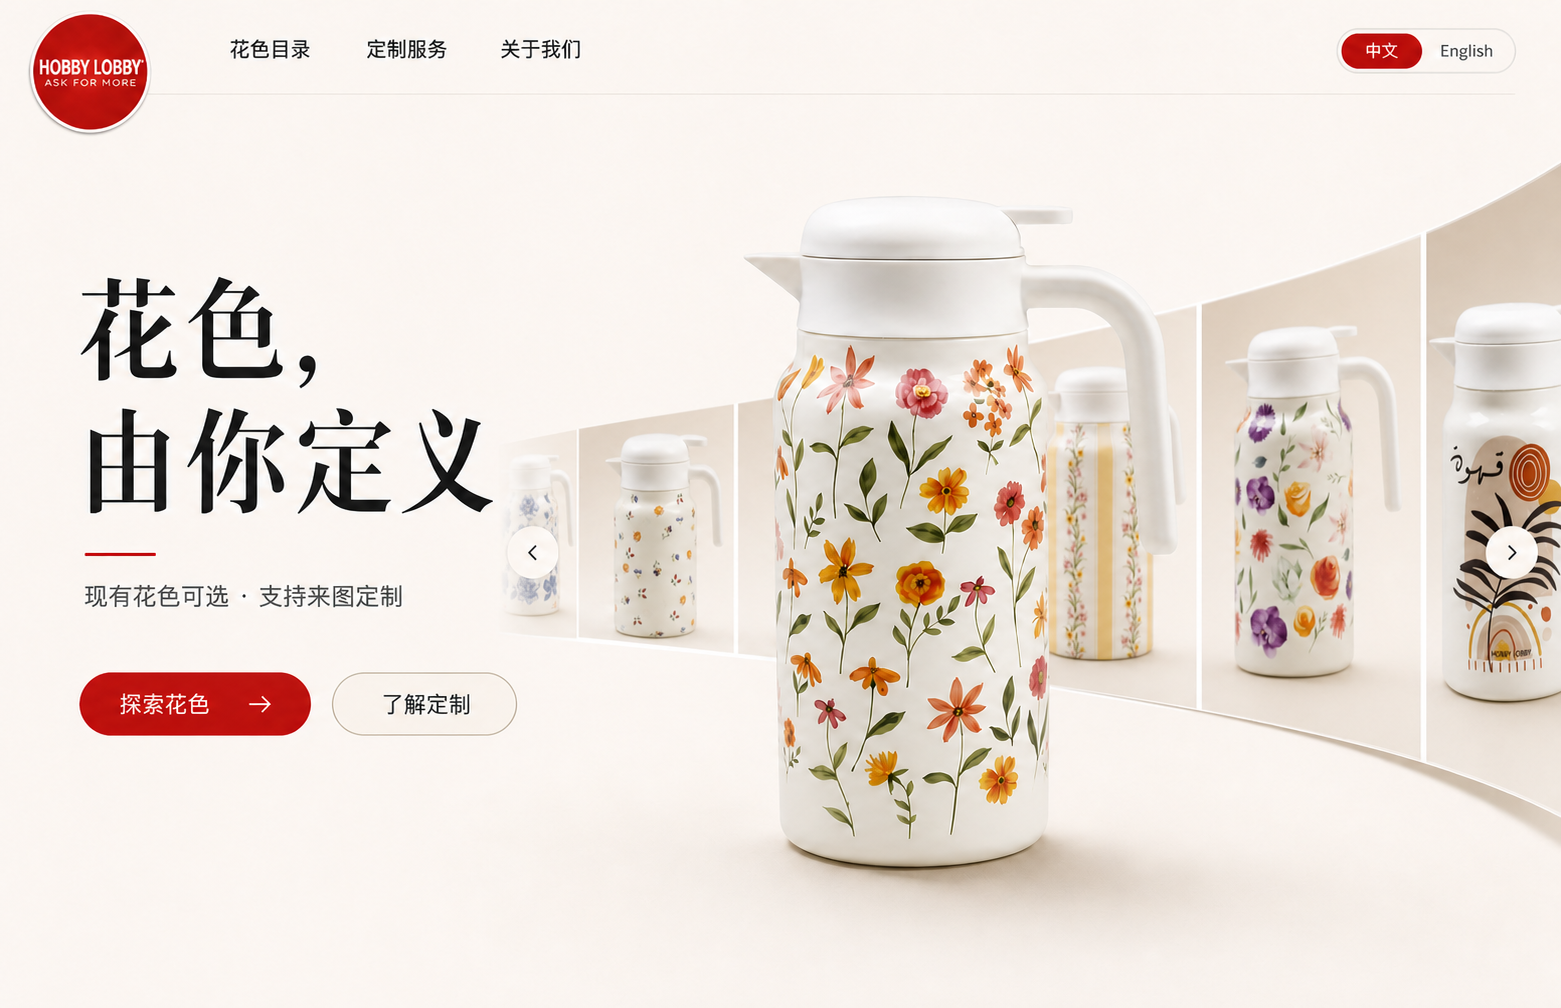
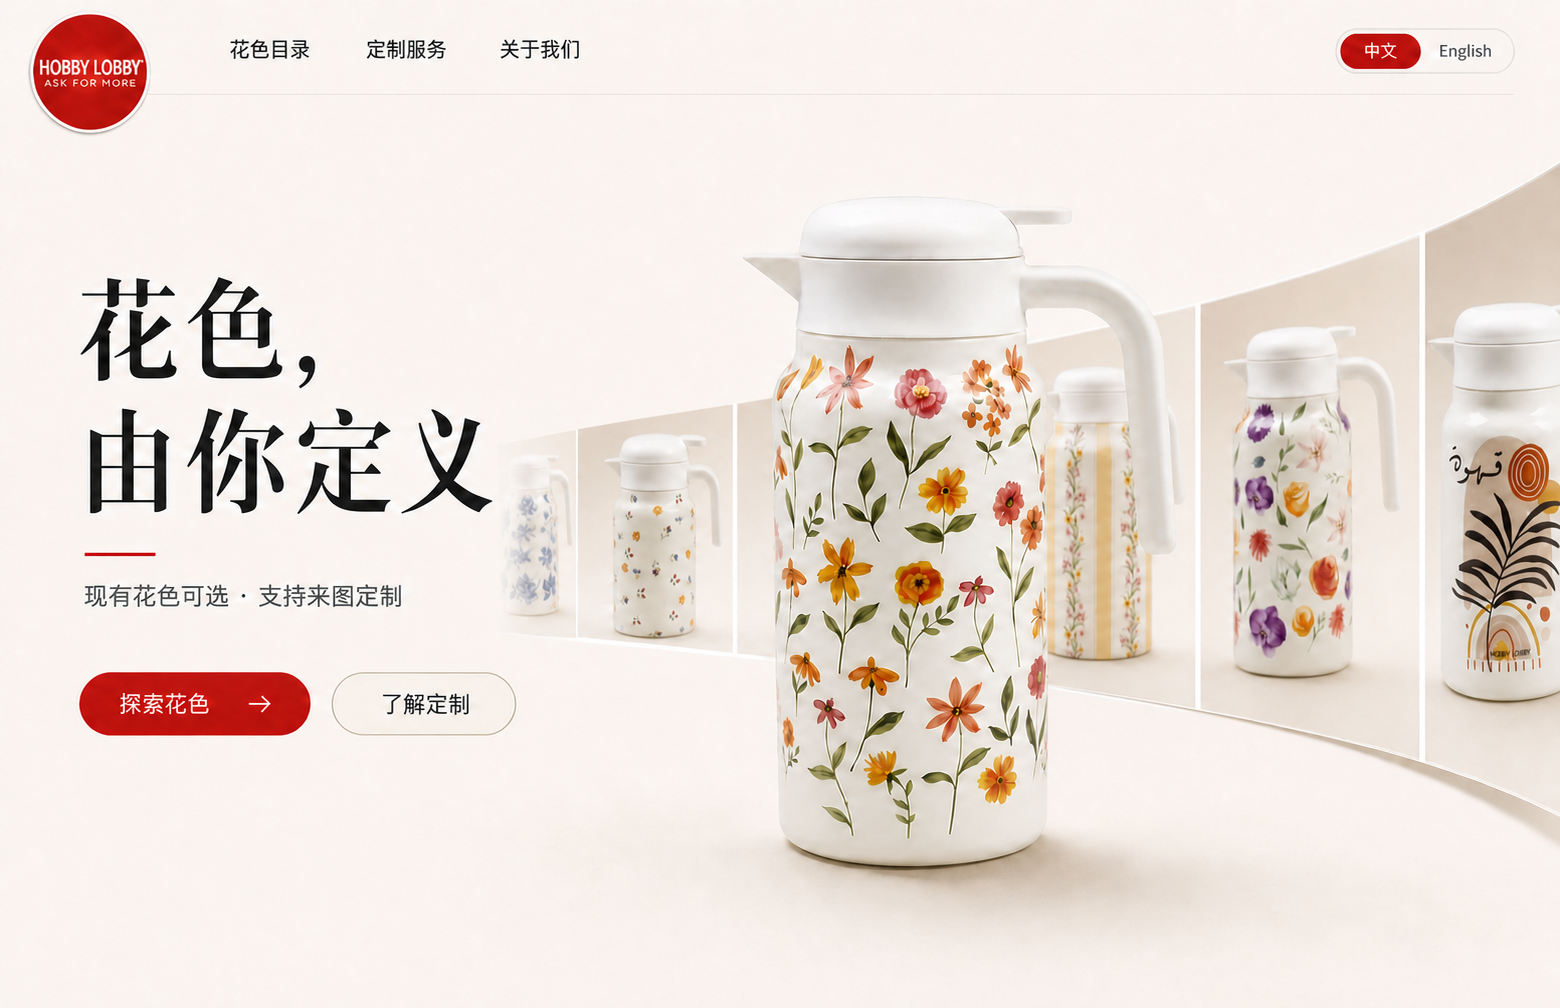
Remove inactive hero arrows

diff --git a/src/App.jsx b/src/App.jsx
@@ -962,7 +962,7 @@ function Storefront() {
   return (
     <div className={`site-shell ${language === "zh" ? "static-reference-active" : ""}`} lang={language}>
       <section className="hero-reference-exact" aria-label="花色，由你定义">
-        <img className="hero-reference-base" src="/assets/hero-reference-products.png" alt="花色由你定义，型号319花色定制展示" width="1561" height="1008" fetchPriority="high" decoding="async" />
+        <img className="hero-reference-base" src="/assets/hero-reference-products.png" alt="花色由你定义，型号319花色定制展示" width="1560" height="1008" fetchPriority="high" decoding="async" />
         <a className="hero-reference-hotspot hero-reference-gallery-nav" href="#gallery" aria-label="花色目录" />
         <a className="hero-reference-hotspot hero-reference-custom-nav" href="#customization" aria-label="定制服务" />
         <a className="hero-reference-hotspot hero-reference-gallery-cta" href="#gallery" aria-label="探索花色" />

diff --git a/design-qa.md b/design-qa.md
@@ -23,6 +23,7 @@
 
 - Animated rear catalogue slots were removed completely.
 - The curtain uses unique static products with no repeated pattern and no floating thumbnail boxes.
+- Both inactive carousel arrow circles were removed from the static hero artwork.
 - Broken images: 0.
 - Horizontal overflow: false.
 - Browser warnings/errors: 0.
@@ -38,7 +39,7 @@
 
 **Focused Region Comparison**
 
-- Reviewed the central-pot edges, lid and handle, every rear curtain position, and the right arrow. No foreground duplication, repeated rear pattern, or floating rectangular overlay remains.
+- Reviewed the central-pot edges, lid and handle, every rear curtain position, and both former arrow locations. No foreground duplication, repeated rear pattern, floating rectangular overlay, or inactive arrow remains.
 
 **Follow-up Polish**
 
